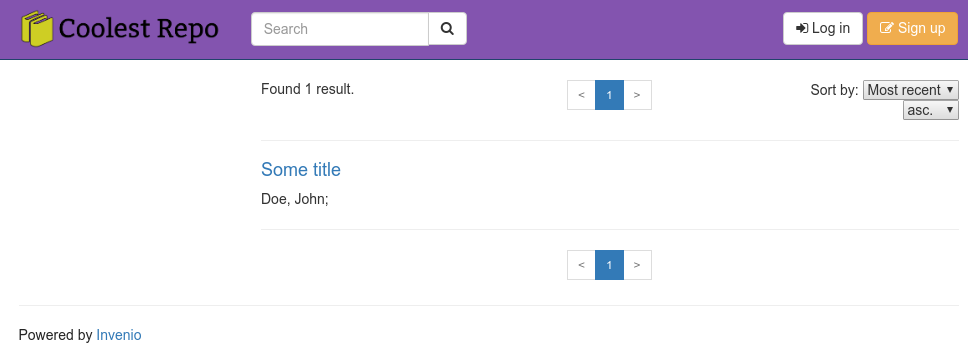
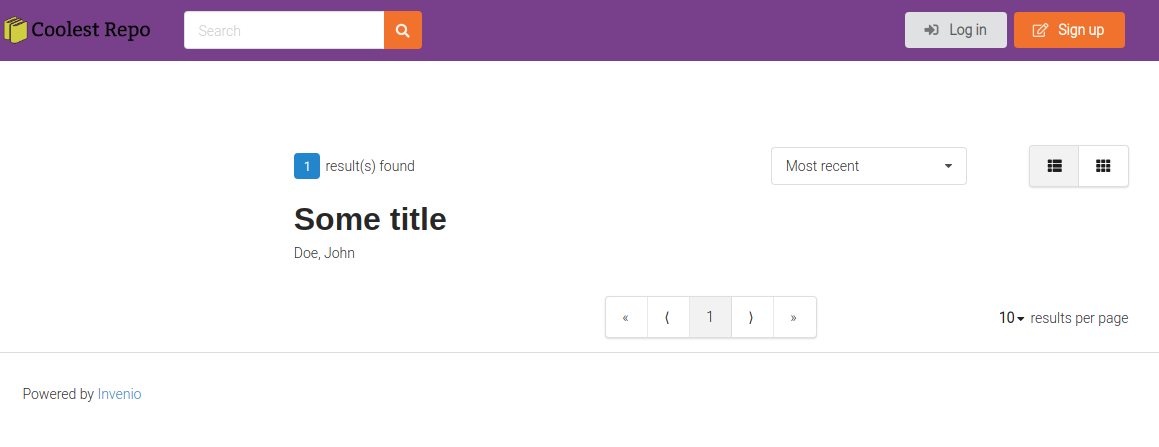
tutorial-05: updates to semantic UI

diff --git a/05-customizing-invenio/README.md b/05-customizing-invenio/README.md
@@ -103,25 +103,54 @@ If you reload the page you will see the new logo on the top left:
 
 ![Invenio front page logo](./images/frontpage-logo.png)
 
-## Step 4: Change the theme color
+## Step 4: Change the theming
 
 Until this moment, we've basically performed "content" changes. In order to
 modify the "style" of the site we have to make changes to the produced CSS.
 
-Invenio uses SCSS in order define CSS styles in a flexible and extensible way.
-The `.scss` we are interested in changing is
-`my_site/theme/assets/scss/my_site/variables.scss`:
+Invenio uses LESS in order define CSS styles in a flexible and extensible way.
+The `.less` we are interested in changing is
+`my_site/theme/assets/semantic-ui/less/my_site/variables.less`:
 
 ```diff
 @import "../invenio_theme/variables";
 
-// If you want to change the primary color you can do something like:
--// $color1: rgba(100, 42, 156, 0.8);
--// $color1-gradient: lighten($color1, 15%);
--// $navbar-default-bg: $color1;
-+$color1: rgba(100, 42, 156, 0.8);
-+$color1-gradient: lighten($color1, 15%);
-+$navbar-default-bg: $color1;
+// If you want to change the brand color you can do something like:
+-// @brandColor      : #793e8e;
++@brandColor      : #793e8e;
+```
+
+If we want to be more precise and change a concrete CSS rule we can add it directly in `my_site/theme/assets/semantic-ui/less/my_site/theme.less`
+
+```diff
+/* Provide here your custom css */
+
+-// footer{
+-//    margin-top: 3px;
+-//  }
+-//
+-//  html.cover-page{
+-//    background-color: rgb(226, 147, 43);
+-//  }
+-//
+-//  .content{
+-//    .header{
+-//        font-size: xx-large !important;
+-//      }
+-//  }
++ footer{
++    margin-top: 3px;
++  }
++
++  html.cover-page{
++    background-color: rgb(226, 147, 43);
++  }
++
++  .content{
++    .header{
++        font-size: xx-large !important;
++      }
++  }
 ```
 
 After changing the file, we have to rebuild our assets using the `invenio
@@ -144,37 +173,80 @@ you can see the following:
 ![Search page result list](./images/search-old.png)
 
 Let's change the way the title and authors of each result look like. The
-current search UI application is built with AngularJS and its various
-components are defined via Angular HTML templates. In our case we'll have to
-modify the `my_site/records/static/templates/records/results.html`:
+current search UI application is built with React. In our case we'll have to
+modify the `MysiteResultsListItem` component from `my_site/theme/assets/semantic-ui/templates/search/ResultsList.item.jsx`:
 
 ```diff
-<div ng-repeat="record in vm.invenioSearchResults.hits.hits track by $index">
-- <h4><a target="_self" ng-href="/records/{{ record.id }}">{{ record.metadata.title }}</a></h4>
-+ <h3><a target="_self" ng-href="/records/{{ record.id }}">{{ record.metadata.title }}</a></h3>
-+ <strong>Authors</strong>
-  <ul class="list-inline">
-      <li ng-repeat='contributor in record.metadata.contributors'>
--       {{ contributor.name }};
-+       <em>{{ contributor.name }}</em>;
-      </li>
-  </ul>
-  <hr />
-</div>
+export const MysiteResultsListItem = ({ result, index }) => {
+  const contributors = result.metadata.contributors || [];
+  return (
+    <Item key={index} href={`/records/${result.id}`}>
+      <Item.Content>
+        <Item.Header>{result.metadata.title}</Item.Header>
+        <Item.Description>
++         <p><b>Authors</b></p>
+          {contributors && (
+            <List horizontal relaxed>
+              {contributors.map((contributor, idx) => (
+                <List.Item key={idx}>{contributor.name}</List.Item>
+              ))}
+            </List>
+          )}
+        </Item.Description>
+      </Item.Content>
+    </Item>
+  );
+};
 ```
 
-Again, we'll have to run the `invenio collect` command, since we changes static
-files:
+Again, we'll have to run the `invenio webpack buildall` command:
 
 ```bash
-(my-site) $ invenio collect -v
-Collect static from blueprints.
-Copied: [my_site_records] '/home/bootcamp/.local/share/virtualenvs/my-site-7Oi5HgLM/var/instance/static/templates/records/results.html'
+(my-site) $ invenio webpack buildall
+...webpack
 ```
 
 And now, if we refresh we'll see that our search results display differently:
 
 ![Invenio page result list with strong and emphasis styles](./images/search-new.png)
+
+If we want to change the grid layout display we'll have to modify the `MysiteResultsGridItem` component from `my_site/theme/assets/semantic-ui/templates/search/ResultsGrid.item.jsx`:
+
+```diff
+export const MysiteResultsGridItem = ({ result, index }) => {
+  const contributors = result.metadata.contributors || [];
+  return (
+    <Card fluid key={index} href={`/records/${result.id}`}>
+      <Card.Content>
+-       <Card.Header>{result.metadata.title}</Card.Header>
++       <Card.Header textAlign="center">{result.metadata.title}</Card.Header>
+        <Card.Description>
+          {contributors && (
+            <List horizontal relaxed>
+              {contributors.map((contributor, idx) => (
+                <List.Item key={idx}>{contributor.name}</List.Item>
+              ))}
+            </List>
+          )}
+        </Card.Description>
+      </Card.Content>
+    </Card>
+  );
+};
+```
+
+Again, we'll have to run the `invenio webpack buildall` command:
+
+```bash
+(my-site) $ invenio webpack buildall
+...webpack
+```
+
+And now, if we refresh we'll see that our grid search results display differently:
+
+![Invenio page result grid with title centered](./images/search-grid-modified.png)
+
+Side note: The components that we just modified are overwriting components from `invenio-search-ui`. More information on how to do it [here](https://github.com/inveniosoftware/invenio-search-ui/blob/master/docs/customizing.rst).
 
 ## Step 6: Change the record page
 
@@ -184,7 +256,7 @@ the record's page:
 ![Record details page](./images/record-old.png)
 
 To change this view we'll have to modify the Jinja template that renders the
-page, `my_site/records/templates/records/record.html`. Let's to something
+page, `my_site/records/templates/semantic-ui/records/record.html`. Let's do something
 similar to what we did with the search results:
 
 ```diff
